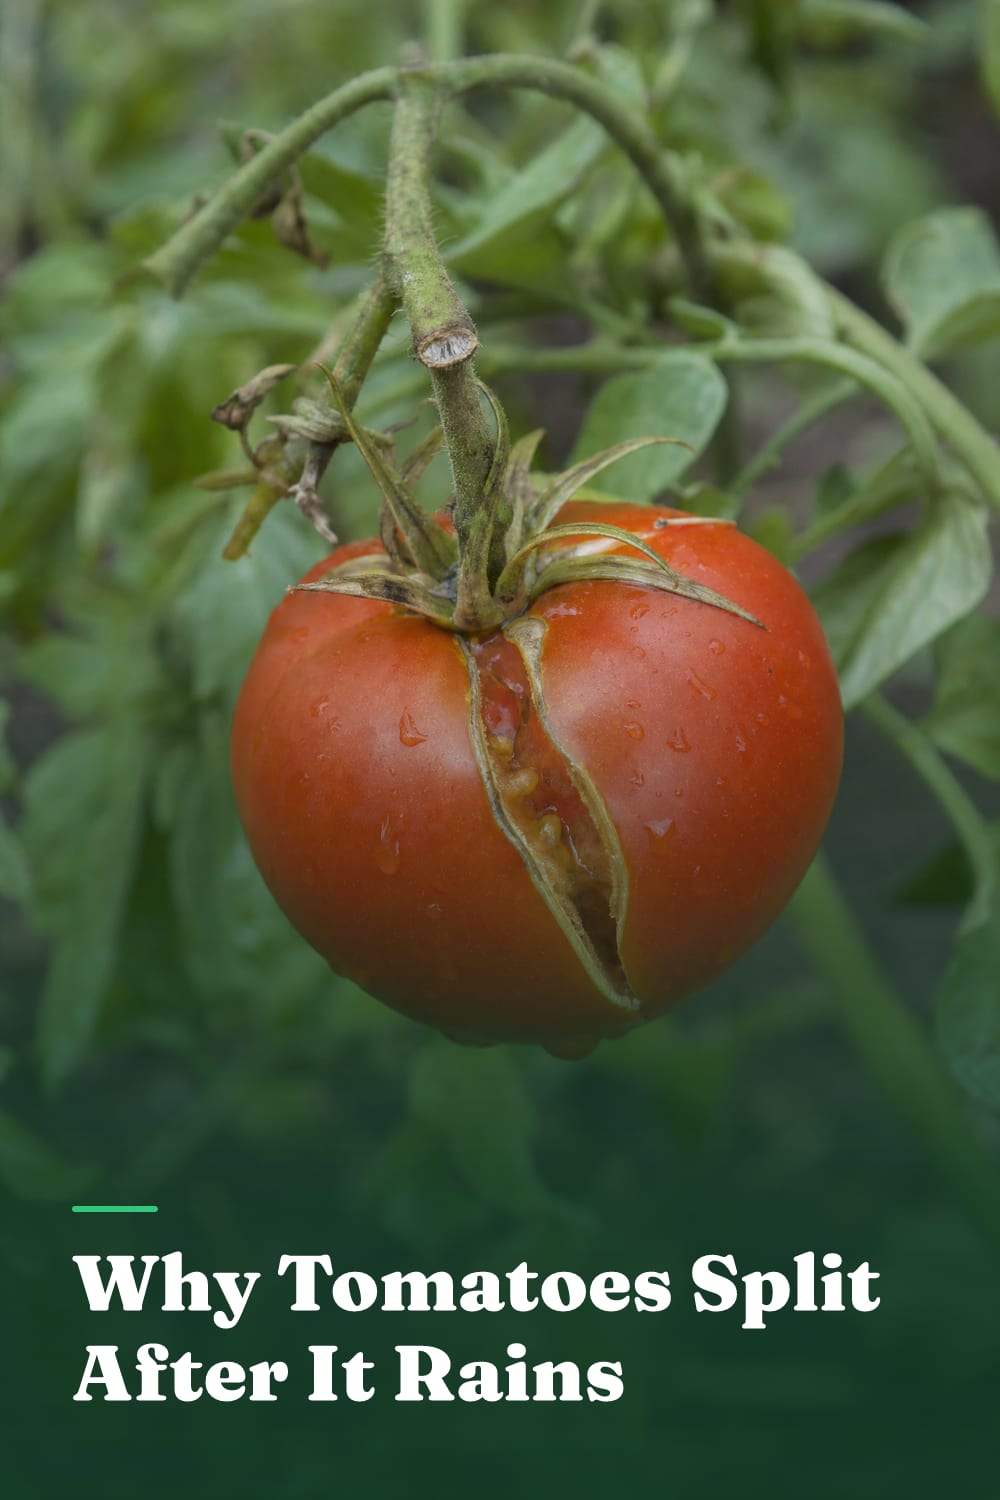
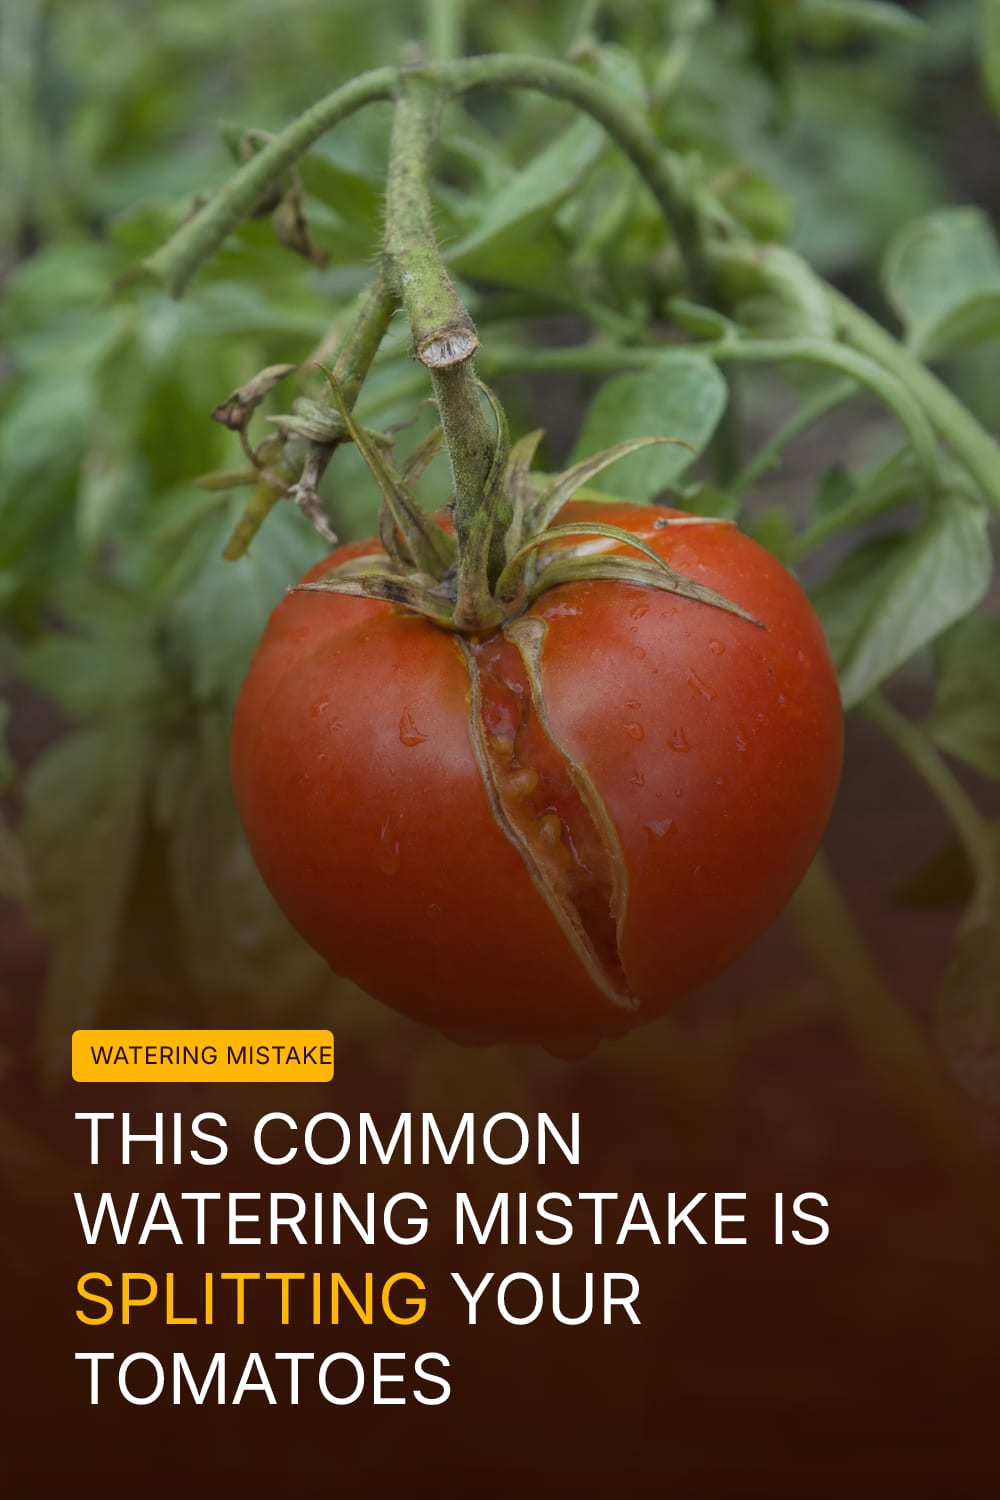
Switch pin/title style to Tabloid Bold, retitle today's post to match
New title style (Inter Black, yellow eyebrow badge, highlighted keyword,
red-black scrim) replaces the plain Fraunces treatment on pins and IG
stories. Retitles "Why Tomatoes Split After It Rains" as a pilot; the
other 13 archive posts are left as-is pending a decision on whether to
re-skin them too.

diff --git a/STYLE.md b/STYLE.md
@@ -113,6 +113,41 @@ already sounds like. Available if the blog ever wants a reference-toned section.
 
 Derived from [Wikipedia: Signs of AI writing](https://en.wikipedia.org/wiki/Wikipedia:Signs_of_AI_writing).
 
+### Titles (exempt from the Inflation rule below)
+
+Titles are the one place on this blog that should go loud. The body text
+underneath still follows every rule in this guide, but the `title` and
+`pinTitle` fields are written to get the click: curiosity gaps, stakes,
+second-person urgency, "the mistake that's killing your tomatoes" energy.
+Bring back what Part 2's "Inflation" section bans everywhere else — "the one
+mistake," "why your X is dying," "stop doing this," "this is why X keeps
+happening to you."
+
+**One rule does not bend: the title cannot claim something the article
+doesn't actually deliver.** A title can be loud about a true thing ("This
+Common Watering Mistake Is Splitting Your Tomatoes") but can't invent a
+severity, a number, or an outcome the post doesn't back up. This isn't a tone
+rule, it's what keeps the click from bouncing and what keeps Google from
+penalizing the post for a mismatch between title and content — a clickbait
+title that doesn't pay off in the first two paragraphs is worse for traffic
+than a plain one.
+
+Compare: "Why Tomatoes Split After It Rains" (old, plain) vs. "This Common
+Watering Mistake Is Splitting Your Tomatoes (And It's Not the Rain)" (loud,
+still 100% accurate to the post). Aim for the second.
+
+**The pin type treatment is "Tabloid Bold"** (picked 2026-07-28): Inter Black
+all-caps on a warm red-black scrim. Two optional frontmatter fields feed it —
+set them when they help, skip them when they don't:
+- `pinEyebrow`: a short (2-4 word) yellow badge label above the title, e.g.
+  `"WATERING MISTAKE"`. Usually the post's core problem, upper-cased.
+- `pinHighlight`: one word or short phrase from the title to render in yellow
+  instead of white, e.g. `"SPLITTING"`. Must match the title text verbatim
+  (case-insensitive) — if it doesn't, or if it straddles a line break, it's
+  silently ignored, so don't rely on it landing every time.
+
+See `scripts/lib/overlay.mjs` for the implementation.
+
 ### Endings
 
 - **Never** end a post with "The bottom line," "In summary," "The takeaway,"

diff --git a/src/content/blog/why-tomatoes-split-after-it-rains.md b/src/content/blog/why-tomatoes-split-after-it-rains.md
@@ -1,11 +1,13 @@
 ---
-title: "Why Tomatoes Split After It Rains"
+title: "This Common Watering Mistake Is Splitting Your Tomatoes"
 description: "A dry spell followed by a heavy rain is the classic setup for cracked tomatoes. The fix isn't about the storm, it's about the week before it."
 date: 2026-07-28
 tags: ["tomatoes", "pests-and-problems", "watering"]
 image: "/assets/blog/why-tomatoes-split-after-it-rains-hero.jpg"
 imageAlt: "A ripe red tomato still on the vine with a deep radial crack running down from the stem"
 pinImage: "/assets/blog/why-tomatoes-split-after-it-rains-pin.jpg"
+pinEyebrow: "WATERING MISTAKE"
+pinHighlight: "SPLITTING"
 pinKeywords: ["tomato splitting", "cracked tomatoes", "tomato garden problems", "summer vegetable garden"]
 draft: false
 ---
